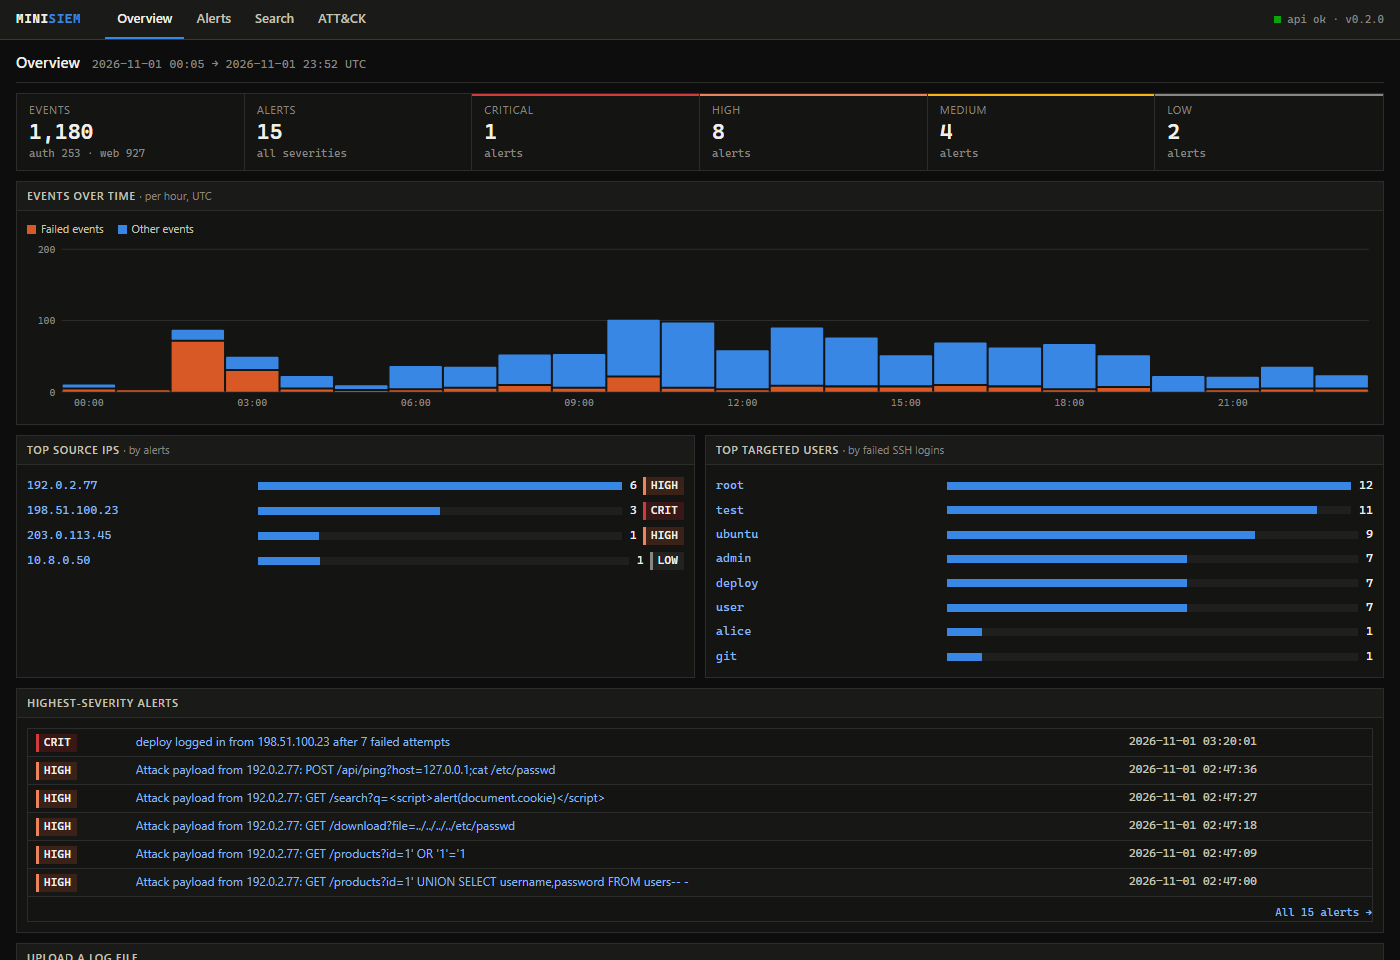
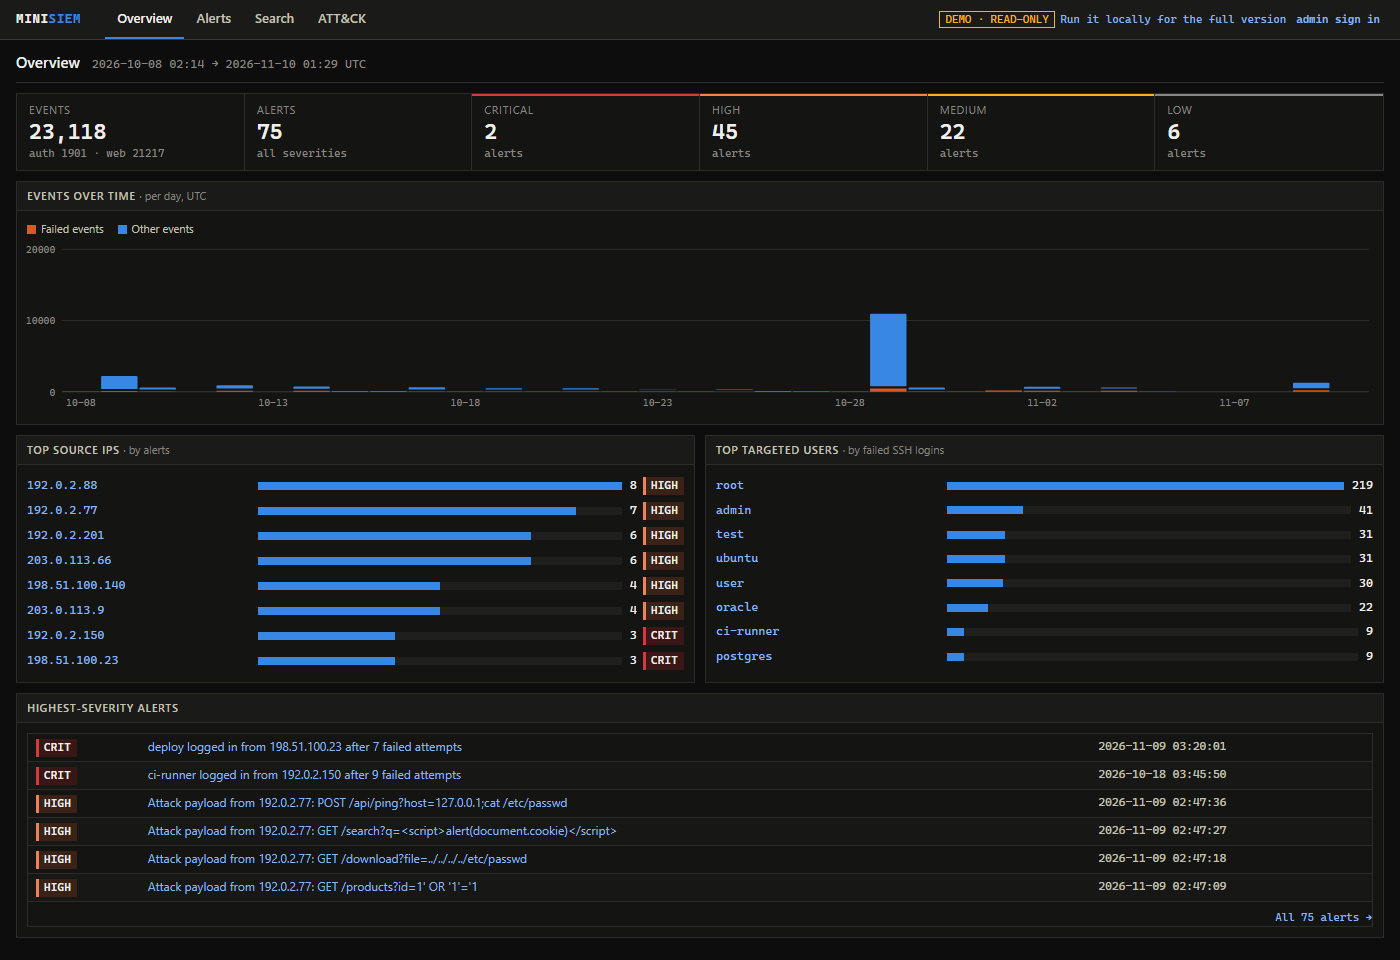
Document security and guest mode, prepare v0.1.0

diff --git a/backend/minisiem/__init__.py b/backend/minisiem/__init__.py
@@ -1,3 +1,3 @@
 """MiniSIEM: a lightweight log ingestion and threat detection pipeline."""
 
-__version__ = "0.2.0"
+__version__ = "0.1.0"

diff --git a/README.md b/README.md
@@ -6,7 +6,7 @@ A lightweight **Security Information and Event Management** tool. It ingests Lin
 
 ## Quick start
 
-Requires **Python 3.12+** and **Node 18+**.
+Requires **Python 3.12+** and **Node 20.19+**.
 
 ```bash
 # 1. Backend: install, load the sample attack dataset, start the API on :8000
@@ -40,16 +40,22 @@ Detection raised 15 alerts:
 
 The repo deploys to Vercel as one project. Vite builds the dashboard as static files, and `api/index.py` runs the FastAPI backend as a Python serverless function (`vercel.json` routes `/api/*` to it, and everything else to the single-page app).
 
-**It runs as a self-contained demo.** Serverless functions can't keep files, so each function instance builds its own SQLite database in `/tmp` from [samples/examples/](samples/examples/) when it starts (about 2 seconds). Every visitor sees the same fully loaded dashboard. Uploads work, but they only last until that instance shuts down, and the dashboard shows a `DEMO` tag to say so.
+**It runs as a self-contained, read-only demo.** Serverless functions can't keep files, so each function instance builds its own SQLite database in `/tmp` from [samples/examples/](samples/examples/) when it starts (about 2 seconds). The example dataset is shifted so that it ends at the present time (60 alerts). On top of that, the demo **replays the sample intrusion live** on host `demo-live`: each line of `samples/auth.log` and `samples/access.log` keeps its time of day and is inserted once that time has passed today, so new events and alerts keep arriving. Requests trigger the catch-up (throttled and locked, so it is cheap), and the dashboard polls every 15 seconds in demo mode.
 
-1. Generate the login variables locally:
+**Visitors are guests.** In demo mode, anonymous visitors browse as a read-only `guest` with no password. `POST /api/detect` and `POST /api/ingest` return 403 for guests. The header shows "Demo · read-only" and a link to run the full version locally. An admin can still sign in to upload logs and re-run detection. Set `MINISIEM_GUEST=false` to turn guest mode off, which brings back the login-only behaviour.
+
+Steps:
+
+1. In Vercel, choose **Add New → Project**, import this repository and select the branch to deploy. Keep the detected defaults (framework Vite, `npm run build`, output `dist`).
+2. Under **Project → Settings → General → Node.js Version**, choose **20.x (20.19 or newer) or 22.x**. The Vite 8 build needs Node 20.19+.
+3. Optional, only if you want admin login on the hosted demo: generate the variables locally with
    ```bash
    cd backend && python -m minisiem create-admin --print
    ```
-2. In Vercel, under **Project → Settings → Environment Variables**, add `MINISIEM_ADMIN_USER`, `MINISIEM_ADMIN_PASSWORD_HASH` and `MINISIEM_SECRET_KEY` from step 1. Leave `MINISIEM_COOKIE_SECURE` unset, so cookies are HTTPS-only. Without these variables, the API refuses every request.
-3. Push to the branch Vercel deploys, or run `vercel --prod`.
+   and add `MINISIEM_ADMIN_USER`, `MINISIEM_ADMIN_PASSWORD_HASH` and `MINISIEM_SECRET_KEY` under **Project → Settings → Environment Variables**. Leave `MINISIEM_COOKIE_SECURE` unset, so cookies are HTTPS-only. Without these variables the guest view works as normal, but nobody can sign in as admin.
+4. Click **Deploy** (or run `vercel --prod`). Open the URL: the dashboard should load without a password and show "Demo · read-only".
 
-Demo-mode differences, set in `api/index.py` and overridable with environment variables: uploads are capped at 4 MB (Vercel's request limit), `X-Forwarded-For` is trusted for the client IP, and login rate limiting counts per instance. `vercel.json` also sets security headers on every response: a Content Security Policy that blocks inline scripts and framing, `nosniff`, and `X-Frame-Options: DENY`.
+Demo-mode differences, set in `api/index.py` and overridable with environment variables: uploads are capped at 4 MB (Vercel's request limit), `X-Forwarded-For` is trusted for the client IP, and login rate limiting counts per instance. `vercel.json` also sets security headers on every response (see [Security](#security)).
 
 ## Architecture
 
@@ -156,7 +162,7 @@ You can also upload files from the **Overview** page (`.log` / `.txt`, max 10 MB
 
 ### Authentication
 
-The dashboard and every data endpoint require a login. There is one admin account, configured through environment variables:
+Locally, the dashboard and every data endpoint require a login (in demo mode, anonymous visitors are read-only guests instead; see [Security](#security)). There is one admin account, configured through environment variables:
 
 | Variable | Purpose |
 |---|---|
@@ -164,6 +170,8 @@ The dashboard and every data endpoint require a login. There is one admin accoun
 | `MINISIEM_ADMIN_PASSWORD_HASH` | Salted PBKDF2-SHA256 hash (600k iterations). The plain password is never stored. |
 | `MINISIEM_SECRET_KEY` | Signs session tokens. At least 32 random characters; changing it logs everyone out. |
 | `MINISIEM_COOKIE_SECURE` | HTTPS-only cookie. On by default; `create-admin` turns it off in the local `.env` for plain-http development. |
+| `MINISIEM_DEMO` | `true` seeds a self-contained demo database and enables guest mode (the Vercel entry point sets it). |
+| `MINISIEM_GUEST` | `false` turns guest mode off, even in demo mode. |
 | `MINISIEM_TRUST_PROXY` | Read the client IP from `X-Forwarded-For`. Enable only behind a proxy you control (Vercel, Render, Fly). |
 
 `python -m minisiem create-admin` writes these to `backend/.env` (git-ignored). `create-admin --print` prints them for a hosting provider's environment settings instead.
@@ -194,6 +202,28 @@ All endpoints except `/api/health` and `/api/auth/login` require authentication.
 | `POST /api/ingest` | Multipart upload: `file`, `source_type`, optional `host`, `year`, `tz_offset` |
 | `POST /api/detect` | Re-run detection |
 
+## Security
+
+MiniSIEM is a security tool, so its own attack surface matters. These are the measures in the code today.
+
+**Authentication.** Passwords are stored only as salted PBKDF2-SHA256 hashes (600k iterations) and compared in constant time. A successful login sets an HS256 JWT in an httpOnly, SameSite=Strict cookie (Secure by default), so page scripts can't read it and other sites can't make the browser send it. Failed logins are rate-limited per IP (five failures, five-minute lockout, HTTP 429), and wrong usernames and wrong passwords look identical. The API fails closed: without a password hash and a strong secret key it returns 503 rather than running open. Forged, expired and `alg: none` tokens are rejected (tested).
+
+**Guest mode (demo only).** When `MINISIEM_DEMO=true` (the Vercel entry point sets it), anonymous visitors are a read-only `guest`. Guests can read alerts, events, stats and rules, but `POST /api/detect` and `POST /api/ingest` return 403. Admin login still works if the admin variables are set. `MINISIEM_GUEST=false` disables guest mode. Outside demo mode there are no guests: every request needs a login.
+
+**Injection.** All SQL is parameterised. Sort columns and other identifiers come from allowlists, and LIKE wildcards in search terms are escaped. [backend/tests/test_injection.py](backend/tests/test_injection.py) sends SQL injection payloads through the filter, sort and pagination parameters. Out-of-range `start` and `end` values return 400.
+
+**Upload validation.** Uploads are size-capped (10 MB locally, 4 MB on the demo) and checked before parsing: files containing NUL bytes or invalid UTF-8 are rejected with 415 (so Latin-1 files must be converted to UTF-8 first), and any line longer than 8192 characters gets 413. A UTF-8 BOM and CRLF line endings are accepted. See `backend/minisiem/uploads.py`.
+
+**Security headers.** `vercel.json` sets these on every response: a Content Security Policy (`default-src 'self'`, no inline scripts, `frame-ancestors 'none'`, `base-uri 'self'`, `form-action 'self'`), `X-Content-Type-Options: nosniff`, `X-Frame-Options: DENY` and `Referrer-Policy: strict-origin-when-cross-origin`.
+
+**Supply chain and CI.** [.github/workflows/ci.yml](.github/workflows/ci.yml) runs backend tests and `python -m minisiem rules`, the frontend build, `npm audit --audit-level=high`, `pip-audit` on both `backend/requirements.txt` and the root `requirements.txt` (the one Vercel installs), and a gitleaks secret scan. Dependabot proposes updates for pip, npm and GitHub Actions.
+
+Known advisories: `npm audit` reports 2 moderate advisories in `react-router-dom` 6.x. The fix requires react-router v7, and this app is client-side only, so they are accepted for now. CI fails only on high severity.
+
+**Secrets.** Secrets live only in environment variables or `backend/.env`, which is git-ignored. `backend/.env.example` holds placeholders only, and the git history was checked for real values.
+
+**Threat model.** The public demo exposes a read-only view of synthetic data: the bundled sample logs and a replay of them, with documentation-reserved IP ranges (192.0.2.0/24, 198.51.100.0/24, 203.0.113.0/24) and made-up hosts and usernames. Guests can't write, no real credentials or logs exist on the server, and each serverless instance has its own throwaway database in `/tmp`. The worst case from abuse is load on a free-tier function, not exposure of real data. That is why letting anyone in without a password is acceptable here. A real deployment should set `MINISIEM_GUEST=false`, keep the admin login and serve the API over TLS. Not covered: a rate limit shared across instances, per-user accounts and audit logging.
+
 ## Screenshots
 
 | Alerts | Alert detail |
@@ -210,7 +240,7 @@ All endpoints except `/api/health` and `/api/auth/login` require authentication.
 cd backend && python -m pytest
 ```
 
-There are 159 tests: each parser (good, malformed and edge-case lines), each rule (should fire / should not fire), every example log against its manifest, ingestion idempotency, every API endpoint, input validation (bad uploads, SQL injection in the sort parameter, LIKE wildcards), and authentication (every endpoint rejects anonymous requests; forged, expired and `alg: none` tokens are rejected; rate limiting; failing closed).
+There are 278 tests: each parser (good, malformed and edge-case lines), each rule (should fire / should not fire), every example log against its manifest, ingestion idempotency, every API endpoint, input validation (upload checks, SQL injection payloads on every parameter, LIKE wildcards), the demo replay and guest mode, and authentication (every endpoint rejects anonymous requests; forged, expired and `alg: none` tokens are rejected; rate limiting; failing closed).
 
 ## Tech stack
 

diff --git a/PROJECT_OUTLINE.md b/PROJECT_OUTLINE.md
@@ -122,7 +122,7 @@ This document breaks the project into **milestones**, each with ordered **steps*
 - [x] **5.4** Take screenshots / record a GIF of the dashboard
 - [x] **5.5** Draw an architecture diagram
 - [x] **5.6** Write the README (see [README Checklist](#f-readme-checklist))
-- [ ] **5.7** Tag a release (`v0.1.0`)
+- [ ] **5.7** Tag a release (`v0.1.0`) (pending deploy)
 
 **Done when:** A fresh clone runs the demo by following the README alone, and every README checklist item is checked. **This is the MVP.**
 
@@ -148,11 +148,11 @@ This document breaks the project into **milestones**, each with ordered **steps*
 **Goal:** The security tool itself has no obvious holes.
 
 - [x] **7.1** Add authentication to the API and dashboard
-- [ ] **7.2** Validate uploaded logs (size limits, file types)
-- [ ] **7.3** Review search/filter code for injection risks
-- [ ] **7.4** Confirm no secrets are committed (`.env` in `.gitignore`, history checked)
-- [ ] **7.5** Enable dependency scanning (Dependabot, `npm audit`, `pip-audit`)
-- [ ] **7.6** Add a "Security" section to the README describing these measures
+- [x] **7.2** Validate uploaded logs (size limits, file types)
+- [x] **7.3** Review search/filter code for injection risks
+- [x] **7.4** Confirm no secrets are committed (`.env` in `.gitignore`, history checked)
+- [x] **7.5** Enable dependency scanning (Dependabot, `npm audit`, `pip-audit`)
+- [x] **7.6** Add a "Security" section to the README describing these measures
 
 **Done when:** Unauthenticated requests are rejected, bad uploads are refused, and dependency scans are clean or triaged.
 
